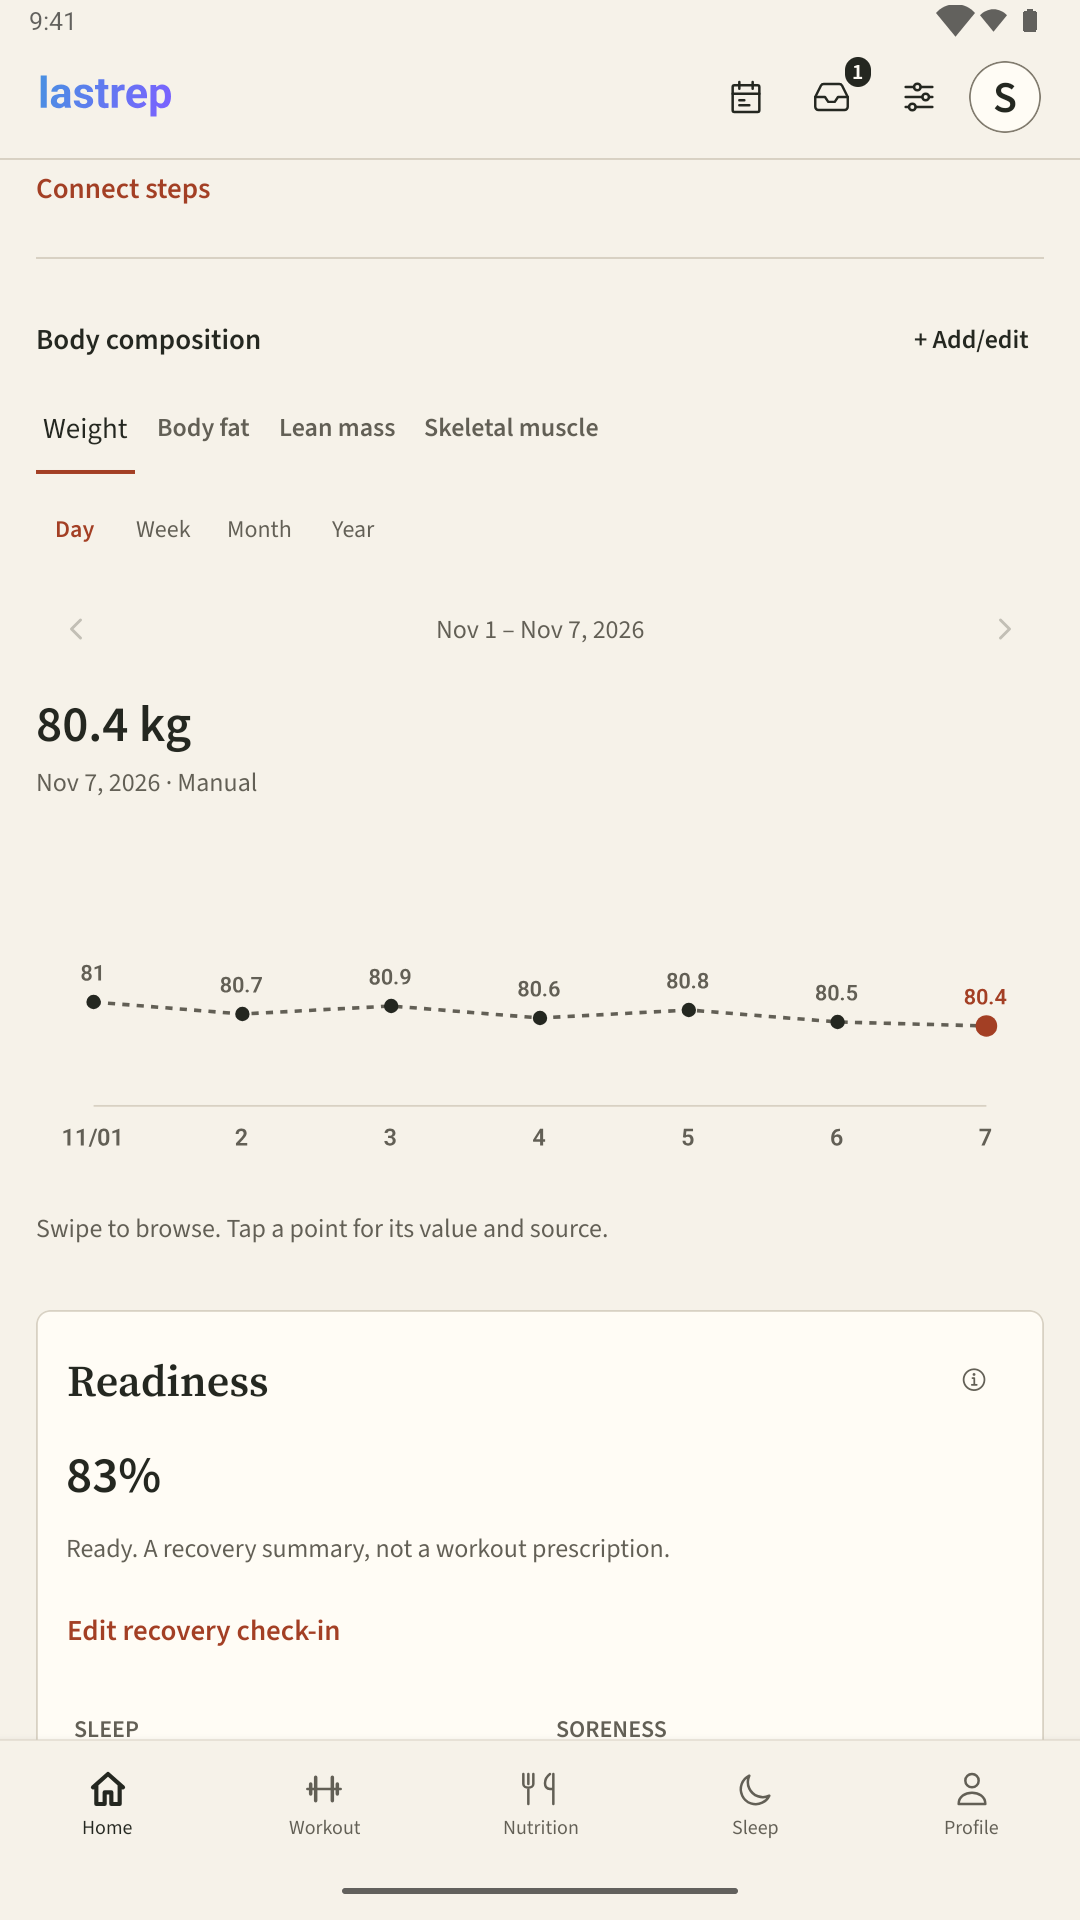
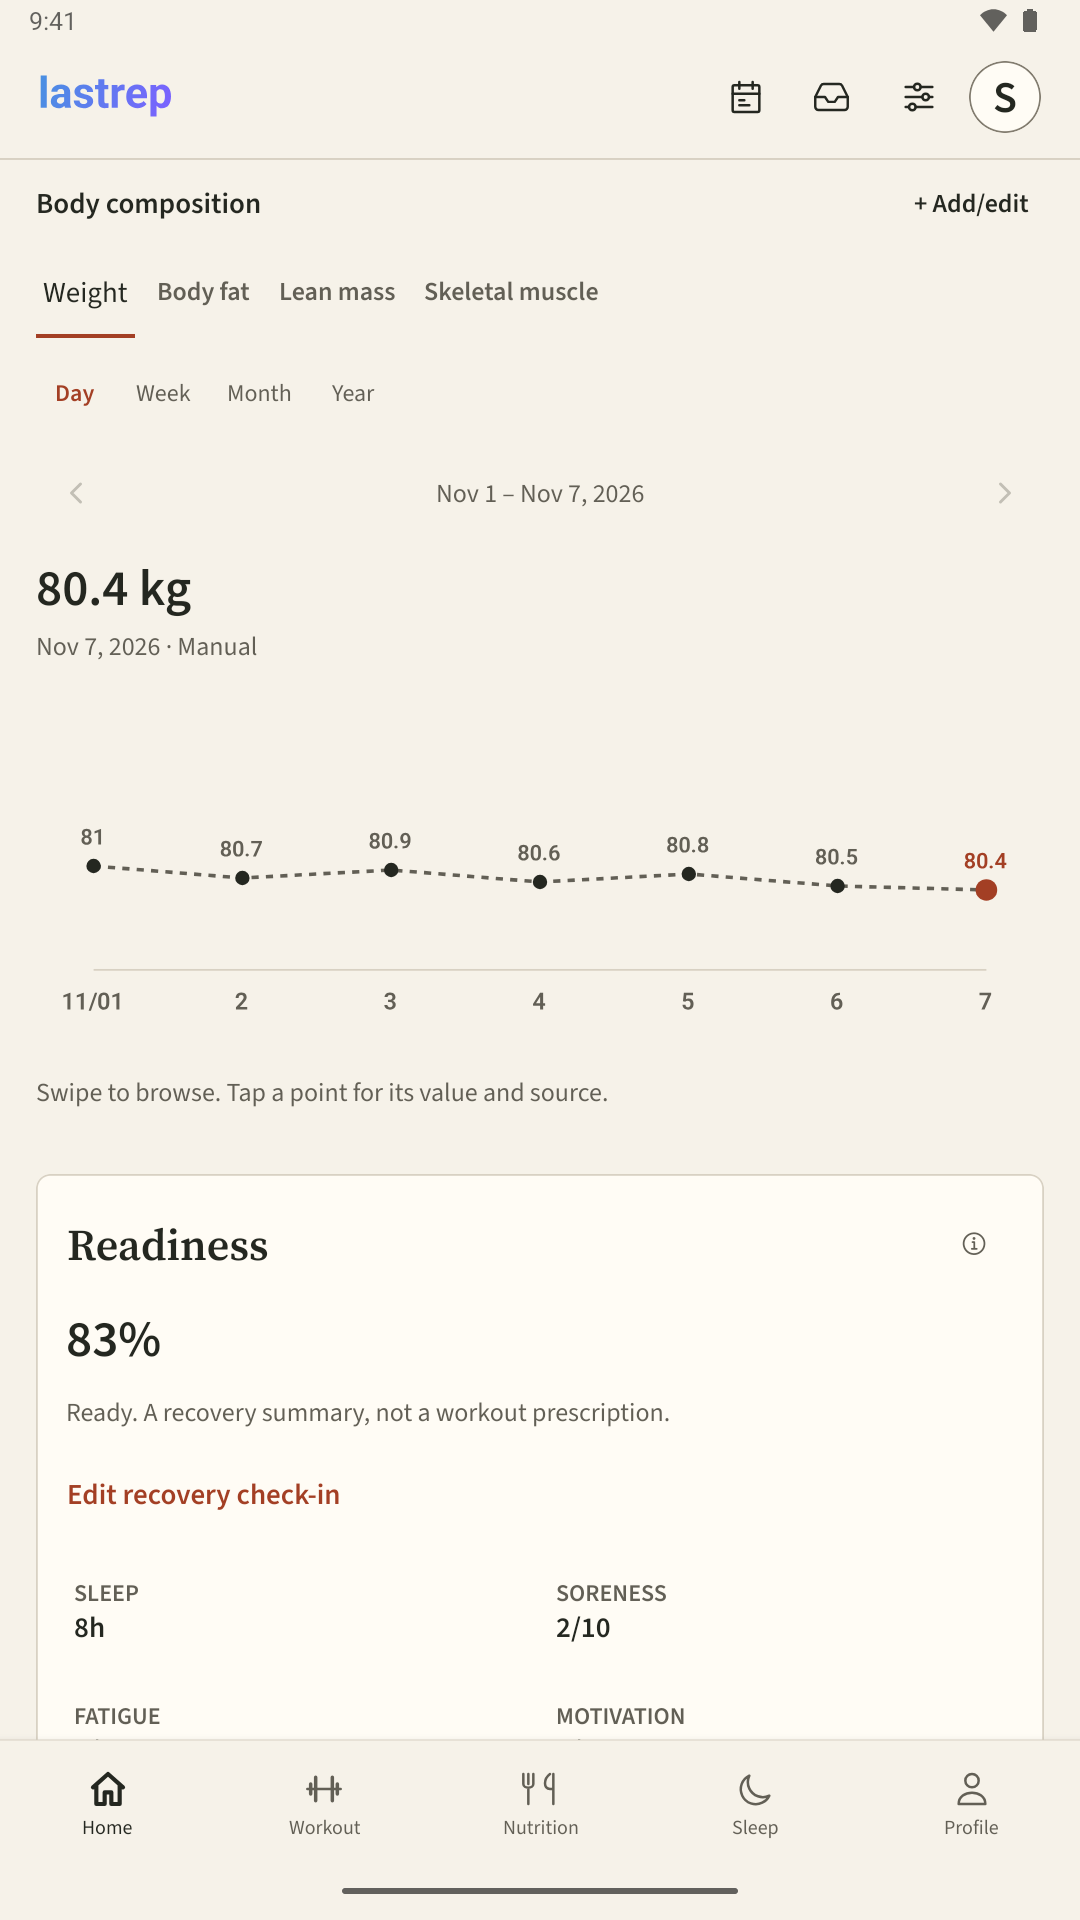
design: refresh final plan and tablet progress screenshots

diff --git a/store-listing/screenshot-concepts-2026-11-07/README.md b/store-listing/screenshot-concepts-2026-11-07/README.md
@@ -80,3 +80,30 @@ fonts/images, centered single-line headlines, layout clearance, source aspect
 ratio, dimensions, opacity and byte size. `asset-manifest.json` records hashes
 for every upload PNG and its native source. Visual browser review additionally
 checks content and device framing.
+
+## Final app polish and tablet framing refresh
+
+The user approved these refreshed scenes after PR #91 (app source b3b1d55):
+
+- Scene 04 at all three native device sizes: Review context is expanded to show
+  the final grouped recovery information, 12 dp muted details and consistent
+  18 dp right/down chevrons.
+- Scene 01 on both tablets: Home is scrolled so Body composition starts below
+  the fixed header, with Connect steps outside the viewport. Phone scene 01
+  remains unchanged.
+
+The other scenes were compared with the changed components. Scene 03 shows
+My programs, not the Sent/Received preview whose day numbers changed; scene 05
+shows the Sharing list, not Sender options. Their visible UI remains current.
+No app content was painted over and no app code changed during this refresh.
+
+All 24 image/source hashes, RGB dimensions and size limits pass. Exactly five
+upload images differ from PR #91. The renderer rechecked fonts, headline fit,
+spacing and source aspect ratios; native captures and composed images were
+visually reviewed. The phone capture was cold-started after display resizing
+to avoid an Android text-rendering artifact.
+
+Cleanup verified: disposable local accounts deleted and signed out, account
+caches cleared, original branding and emulator display/density/demo settings
+restored, and temporary capture Metro 8083 stopped. No Play Console upload or
+AAB build is included; listing upload remains a separate user action.
